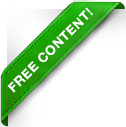
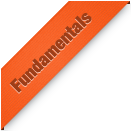
fandamentals ribbon

diff --git a/wp-content/plugins/video-categories/css/video-categories.css b/wp-content/plugins/video-categories/css/video-categories.css
@@ -74,6 +74,15 @@ h2.categoryTitle{
     box-shadow: none;
 }
 
+.itemLeft .freeimage {
+	position: absolute;
+	top: -4px;
+	left: -4px;
+	border-radius: 0px;
+	box-shadow: none;
+	width: 96px;
+}
+
 .itemLeft img{
     box-shadow: 2px 2px 10px #000000;
     border-radius:10px;

diff --git a/wp-content/plugins/video-categories/categoriesVideo.php b/wp-content/plugins/video-categories/categoriesVideo.php
@@ -61,7 +61,7 @@ class categoriesVideo {
 		echo '<p><label>Subtitle - To be included on video category page</label><br/>';
 		echo '<input type="text" id="subtitle_field" name="subtitle_field" size="70" value="' . $subTitle . '"/></p>';
 		echo '<p><input type="checkbox" id="free_content" name="free_content" ' . $freeChecked . ' />&nbsp;&nbsp;';
-		echo '<label for="free_content">Free Content</label>';		
+		echo '<label for="free_content">Included in Fundamentals</label>';		
 		echo '<p><input type="checkbox" id="new_content" name="new_content" ' . $newChecked . ' />&nbsp;&nbsp;';
 		echo '<label for="new_content">New Content</label>&nbsp;&nbsp;&nbsp;&nbsp;<label>Expires : </label>' . $expireDate . '</p>';
 	}
